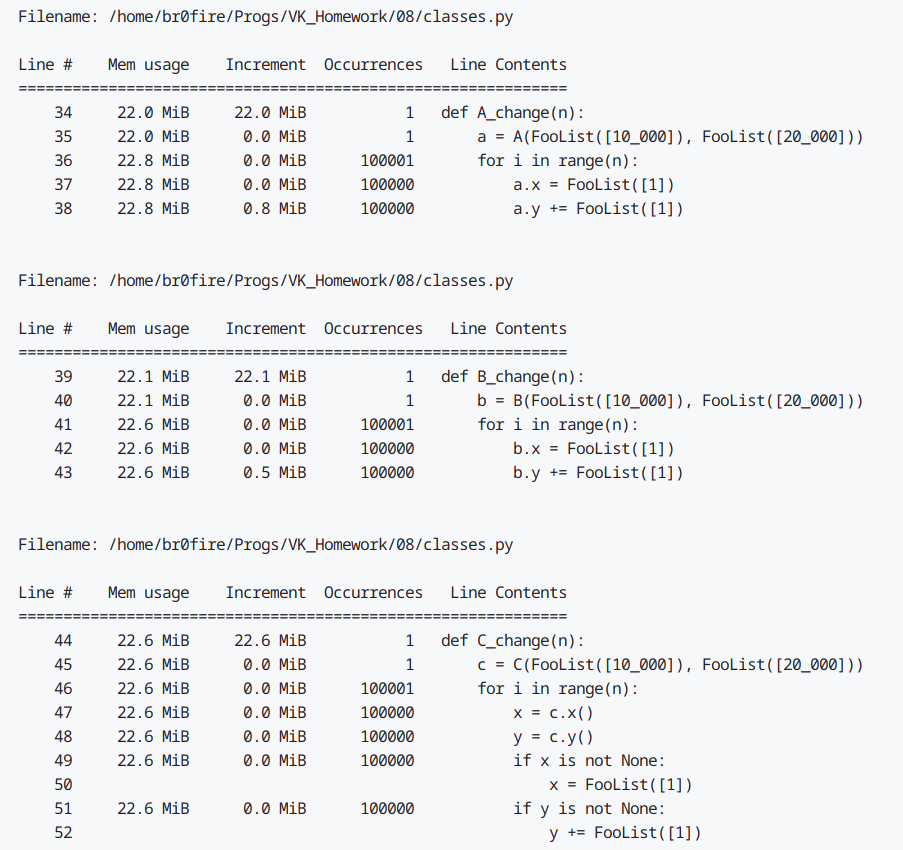
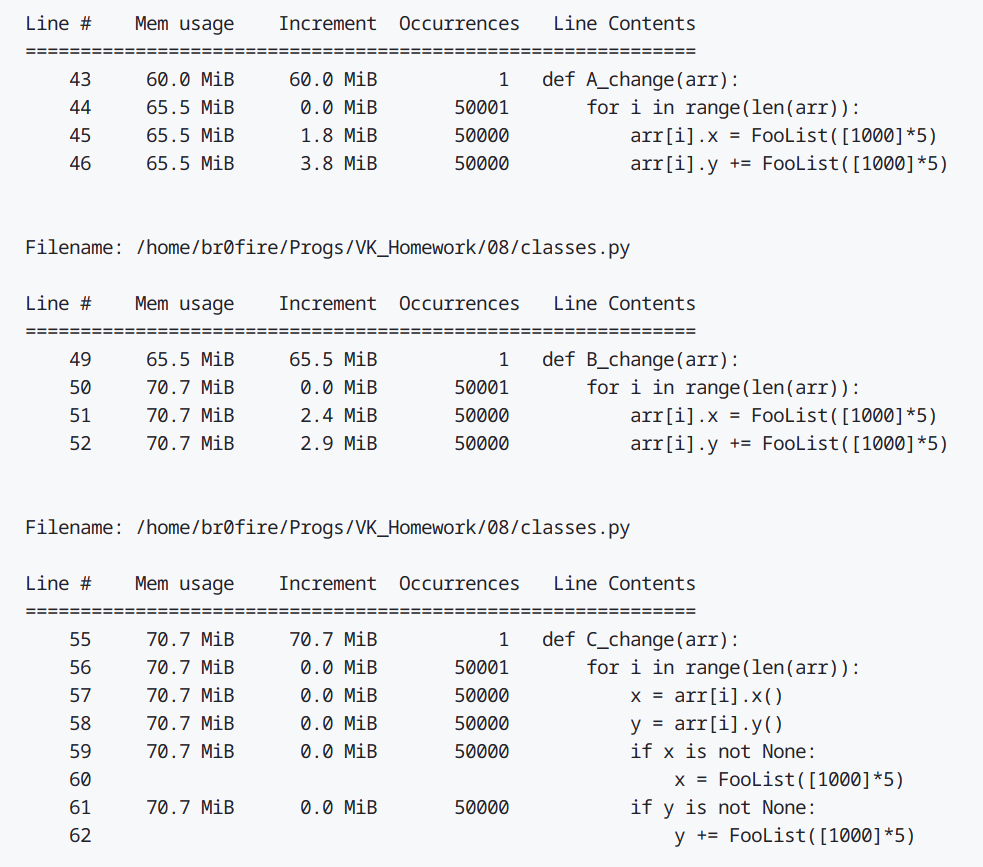
second commit

Changed region(s): [[0.0, 0.0, 0.9612, 1.0], [0.5581, 0.8871, 0.5891, 0.9176]]

diff --git a/08/classes.py b/08/classes.py
@@ -26,40 +26,37 @@ class FooList(list):
 
 
 def A_init(n):
-    for i in range(n):
-        a = A(FooList([10_000]), FooList([20_000]))
+    class_arr = [A(FooList([10_000]), FooList([20_000])) for i in range(n)]
+    return class_arr
 
 
 def B_init(n):
-    for i in range(n):
-        b = B(FooList([10_000]), FooList([20_000]))
+    class_arr = [B(FooList([10_000]), FooList([20_000])) for i in range(n)]
+    return class_arr
 
 
 def C_init(n):
-    for i in range(n):
-        c = C(FooList([10_000]), FooList([20_000]))
+    class_arr = [C(FooList([10_000]), FooList([20_000])) for i in range(n)]
+    return class_arr
 
 
-def A_change(n):
-    a = A(FooList([10_000]), FooList([20_000]))
-    for i in range(n):
-        a.x = FooList([1])
-        a.y += FooList([1])
+def A_change(arr):
+    for i in range(len(arr)):
+        arr[i].x = FooList([1000]*5)
+        arr[i].y += FooList([1000]*5)
 
 
-def B_change(n):
-    b = B(FooList([10_000]), FooList([20_000]))
-    for i in range(n):
-        b.x = FooList([1])
-        b.y += FooList([1])
+def B_change(arr):
+    for i in range(len(arr)):
+        arr[i].x = FooList([1000]*5)
+        arr[i].y += FooList([1000]*5)
 
 
-def C_change(n):
-    c = C(FooList([10_000]), FooList([20_000]))
-    for i in range(n):
-        x = c.x()
-        y = c.y()
+def C_change(arr):
+    for i in range(len(arr)):
+        x = arr[i].x()
+        y = arr[i].y()
         if x is not None:
-            x = FooList([1])
+            x = FooList([1000]*5)
         if y is not None:
-            y += FooList([1])
+            y += FooList([1000]*5)

diff --git a/08/test_time.py b/08/test_time.py
@@ -5,29 +5,29 @@ from classes import A_change, B_change, C_change
 
 if __name__ == '__main__':
 
-    n = 100_000
+    n = 5_000_000
     start_time = time.time()
     print('Class init:')
-    A_init(n)
+    A_arr = A_init(n)
     print("Time taken by A: ", time.time() - start_time)
 
     start_time = time.time()
-    B_init(n)
+    B_arr = B_init(n)
     print("Time taken by B: ", time.time() - start_time)
 
     start_time = time.time()
-    C_init(n)
+    C_arr = C_init(n)
     print("Time taken by C: ", time.time() - start_time)
     print('Read and write attr:')
     # Измеряем время чтения/изменения атрибутов
     start_time = time.time()
-    A_change(n)
+    A_change(A_arr)
     print("Time taken by A: ", time.time() - start_time)
 
     start_time = time.time()
-    B_change(n)
+    B_change(B_arr)
     print("Time taken by B: ", time.time() - start_time)
 
     start_time = time.time()
-    C_change(n)
+    C_change(C_arr)
     print("Time taken by C: ", time.time() - start_time)

diff --git a/08/test_mem.py b/08/test_mem.py
@@ -3,18 +3,17 @@ from classes import A_init, B_init, C_init
 from classes import A_change, B_change, C_change
 
 
-
 if __name__ == '__main__':
 
-    n = 100_000
-    profile(A_init)(n)
+    n = 50_000
+    A_arr = profile(A_init)(n)
 
-    profile(B_init)(n)
+    B_arr = profile(B_init)(n)
 
-    profile(C_init)(n)
+    C_arr = profile(C_init)(n)
 
-    profile(A_change)(n)
+    profile(A_change)(A_arr)
 
-    profile(B_change)(n)
+    profile(B_change)(B_arr)
 
-    profile(C_change)(n)
+    profile(C_change)(C_arr)

diff --git a/08/README.MD b/08/README.MD
@@ -1,4 +1,4 @@
-## Время 
+## Время ($n = 5.000.000$)
 Создание экземпляров:
 
 1. Класс с обычными атрибутами:
@@ -20,24 +20,25 @@
 Выводы:
 - Использование слотов может ускорить создание и чтение/изменение атрибутов объектов.
 - Использование weakref может быть полезным для определенных сценариев, но может замедлить создание объектов.
-## Память
+## Память ($n = 50.000$)
 Создание экземпляров:
 
 1. Класс с обычными атрибутами:
-21.9 МБ 
+13.8 МБ
 2. Класс со слотами:
-22 МБ
+12.0 МБ
 3. Класс с атрибутами weakref:
-22 МБ
+12.5 МБ
 
-Обычный класс занял меньше всего памяти, видимо из-за своей простоты.
+Больше всего памяти удалось сэкономить при использовании слотов.
 
 Чтение/изменение атрибутов:
 
 1. Класс с обычными атрибутами:
-При изменении аттрибутта память увеличилась на 0.8 МБ
+1.8/3.8 МБ
 2. Класс со слотами:
-При изменении аттрибутта память увеличилась на 0.5 МБ
+2.4/2.9 МБ
 3. Класс с атрибутами weakref:
-При изменении аттрибутта память увеличилась на 0.0 МБ
+0.0/0.0 МБ
+
 Заметим, что слоты эффективнее использовали память для изменения аттрибута по сравнению с обычным классом. В то время, как weakref не использовал доп память. 
